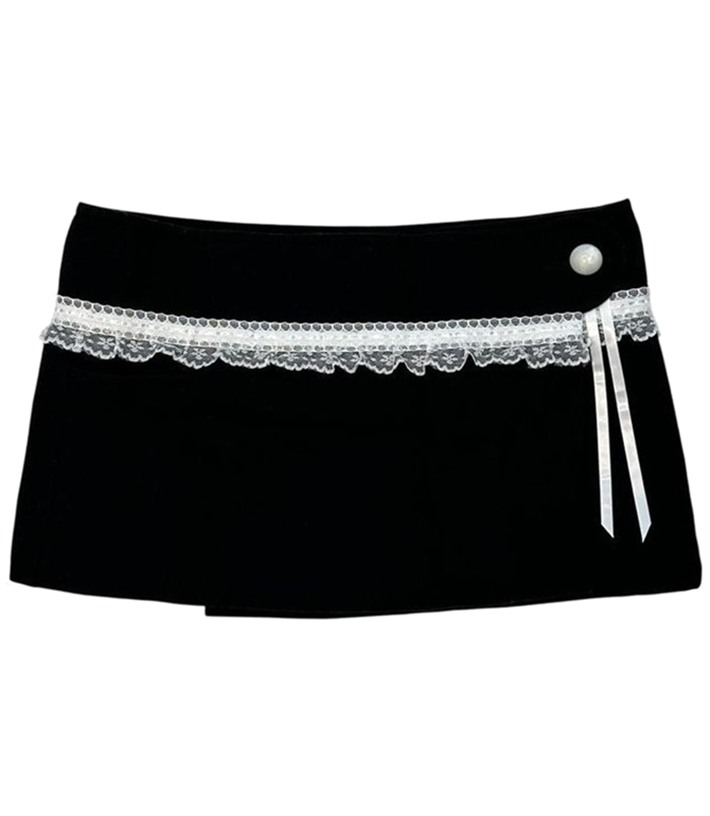
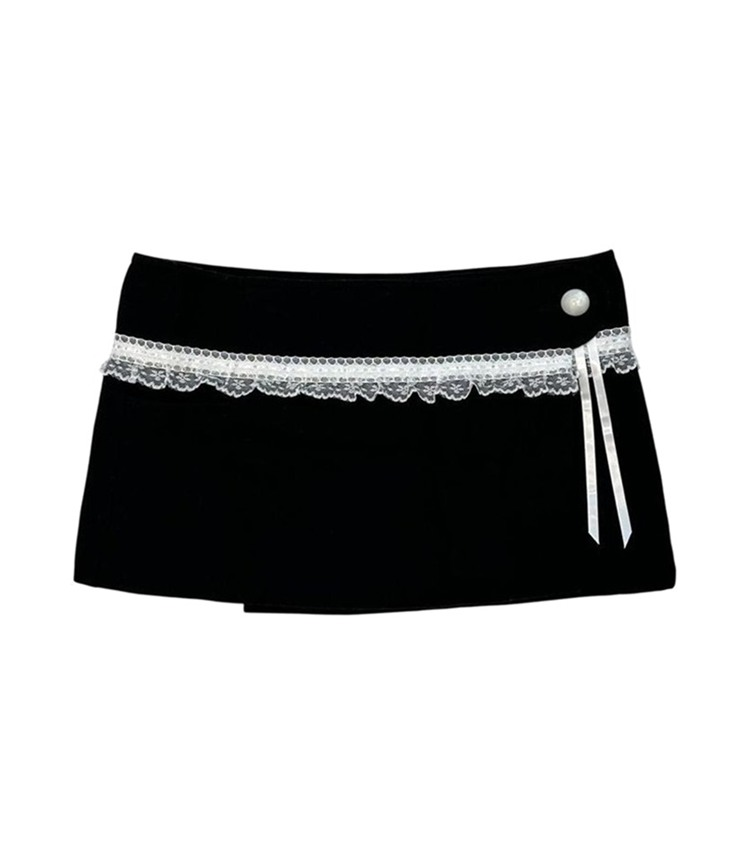
уменьшить масштаб чёрной юбки на карточке категории Юбки

Changed region(s): [[0.0, 0.2451, 0.9915, 0.7659]]

diff --git a/index.html b/index.html
@@ -378,7 +378,7 @@ h1, h2, h3, .serif { font-family: var(--font-serif); font-weight: 500; line-heig
 .category-card__photo img[src="skirt-velvet.jpg"] { object-fit: contain; }
 
 /* платья раздела «Платья»: вещь с полями, как на других карточках */
-.card__photo img[src="dress-corset.jpg"], .card__photo img[src="dress-volany.jpg"], .card__photo img[src="dress-shirt2.jpg"], .card__photo img[src="dress-shirt3.jpg"], .card__photo img[src="e14458e95252ee275c697a6ba4ade56c.jpg"], .card__photo img[src="dress-gorosh.jpg"], .card__photo img[src="dress-lux.jpg"], .card__photo img[src="dress-tux.jpg"], .card__photo img[src="dress-blue-mini.jpg"], .card__photo img[src="top-coquette.jpg"], .card__photo img[src="top-menthol.jpg"], .card__photo img[src="top-bluza.jpg"], .card__photo img[src="top-navy.jpg"], .card__photo img[src="top-mint2.jpg"], .card__photo img[src="top-volna.jpg"], .card__photo img[src="pants-denim.jpg"], img[src="pants-pink.jpg"], img[src="pants-navy.jpg"], img[src="pants-sky.jpg"], img[src="pants-black.jpg"], img[src="top-bow.jpg"], .card__photo img[src="top-mint2.jpg"], .card__photo img[src="top-broderie.jpg"], .card__photo img[src="top-white.jpg"], .card__photo img[src="top-white2.jpg"], .card__photo img[src="top-white3.jpg"], .card__photo img[src="top-broderie.jpg"], .card__photo img[src="skirt-ruffle.jpg"], .card__photo img[src="skirt-beige.jpg"], .card__photo img[src="skirt-plaid.jpg"], .card__photo img[src="skirt-lace.jpg"], .card__photo img[src="skirt-denim.jpg"], .card__photo img[src="skirt-coquette.jpg"], .card__photo img[src="skirt-puf.jpg"], .card__photo img[src="skirt-velvet.jpg"], .card__photo img[src="pants-denim.jpg"], img[src="pants-pink.jpg"], img[src="pants-navy.jpg"], img[src="pants-sky.jpg"], img[src="pants-black.jpg"], .card__photo img[src="pants-khaki.jpg"], .card__photo img[src="pants-gray.jpg"], .card__photo img[src="pants-polka-pink.jpg"], .card__photo img[src="pants-velvet-gray.jpg"], img[src="pants-satin-blue.jpg"] { object-fit: contain; mix-blend-mode: multiply; }
+.card__photo img[src="dress-corset.jpg"], .card__photo img[src="dress-volany.jpg"], .card__photo img[src="dress-shirt2.jpg"], .card__photo img[src="dress-shirt3.jpg"], .card__photo img[src="e14458e95252ee275c697a6ba4ade56c.jpg"], .card__photo img[src="dress-gorosh.jpg"], .card__photo img[src="dress-lux.jpg"], .card__photo img[src="dress-tux.jpg"], .card__photo img[src="dress-blue-mini.jpg"], .card__photo img[src="top-coquette.jpg"], .card__photo img[src="top-menthol.jpg"], .card__photo img[src="top-bluza.jpg"], .card__photo img[src="top-navy.jpg"], .card__photo img[src="top-mint2.jpg"], .card__photo img[src="top-volna.jpg"], .card__photo img[src="pants-denim.jpg"], img[src="pants-pink.jpg"], img[src="pants-navy.jpg"], img[src="pants-sky.jpg"], img[src="pants-black.jpg"], img[src="top-bow.jpg"], .card__photo img[src="top-mint2.jpg"], .card__photo img[src="top-broderie.jpg"], .card__photo img[src="top-white.jpg"], .card__photo img[src="top-white2.jpg"], .card__photo img[src="top-white3.jpg"], .card__photo img[src="top-broderie.jpg"], .card__photo img[src="skirt-ruffle.jpg"], .card__photo img[src="skirt-beige.jpg"], .card__photo img[src="skirt-plaid.jpg"], .card__photo img[src="skirt-lace.jpg"], .card__photo img[src="skirt-denim.jpg"], .card__photo img[src="skirt-coquette.jpg"], .card__photo img[src="skirt-puf.jpg"], .card__photo img[src="skirt-velvet.jpg"], .card__photo img[src="pants-denim.jpg"], img[src="pants-pink.jpg"], img[src="pants-navy.jpg"], img[src="pants-sky.jpg"], img[src="pants-black.jpg"], .card__photo img[src="pants-khaki.jpg"], .card__photo img[src="pants-gray.jpg"], .card__photo img[src="pants-polka-pink.jpg"], .card__photo img[src="pants-velvet-gray.jpg"], img[src="pants-satin-blue.jpg"] , img[src="outer-shearling.jpg"] { object-fit: contain; mix-blend-mode: multiply; }
 
 /* Топы (главная категория): вещь целиком */
 .category-card__photo img[src="top-mint2.jpg"] { object-fit: contain; }
@@ -1386,7 +1386,7 @@ h1, h2, h3, .serif { font-family: var(--font-serif); font-weight: 500; line-heig
     'skirts:5': { name: 'Мини-юбка-баллон, молочная', meta: 'Хлопок · лён', price: 3590 },
     'skirts:6': { name: 'Юбка-мини с кружевом, черная', meta: 'Вискоза · шелк', price: 3990 },
     'skirts:7': { name: 'Юбка джинсовая мини с воланом', meta: 'Деним · хлопок', price: 5990 },
-    'outer:0': { name: 'Куртка-шершавка с пушистым воротником, розовая', meta: 'Хлопок · лён', price: 34900 }
+    'outer:0': { name: 'Куртка с ворсом-мехом, розовая', meta: 'Хлопок · Шерсть', price: 34900 }
   };
 
   function phCard(title, price, i, photos, catKey) {
